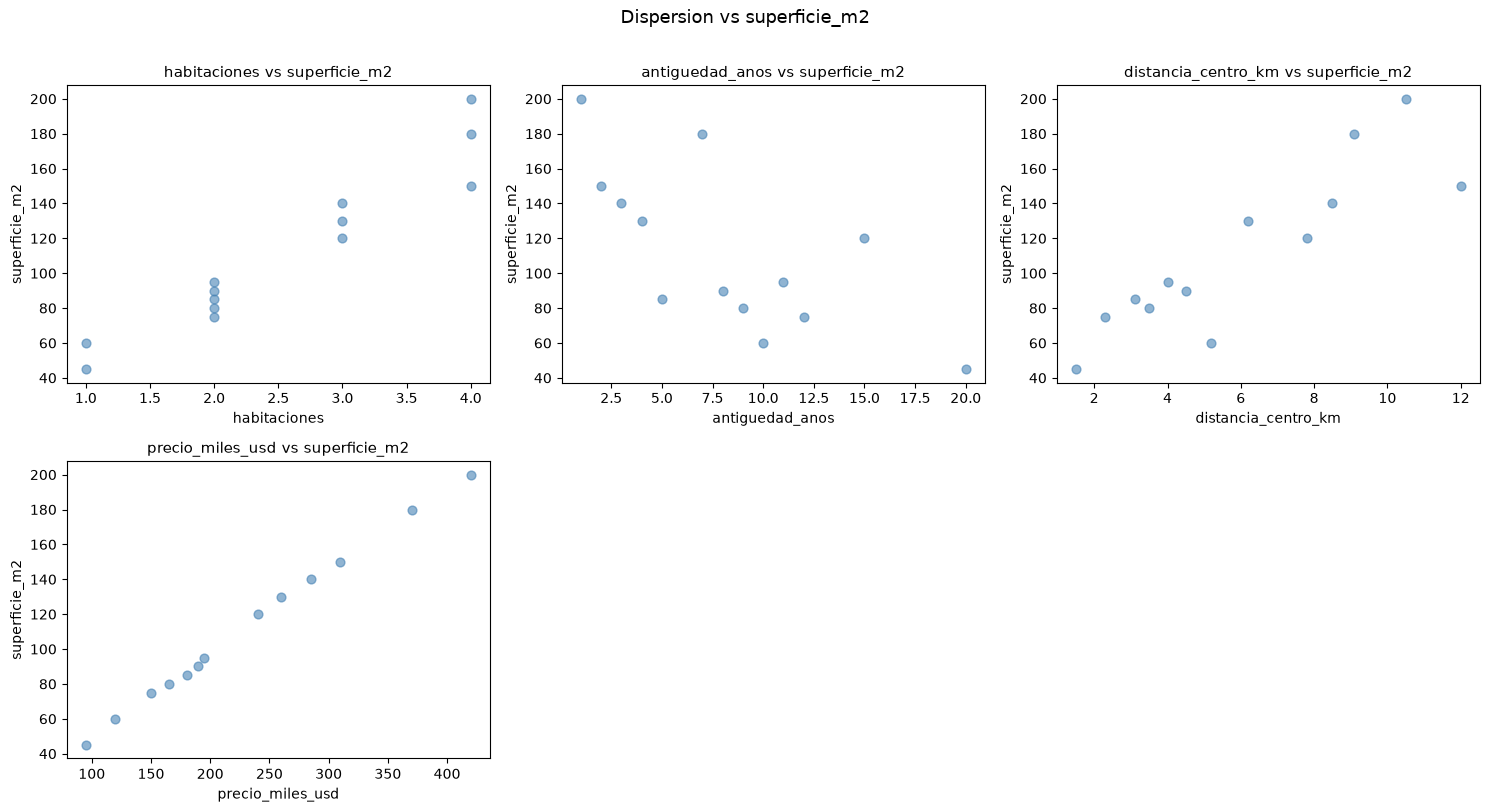
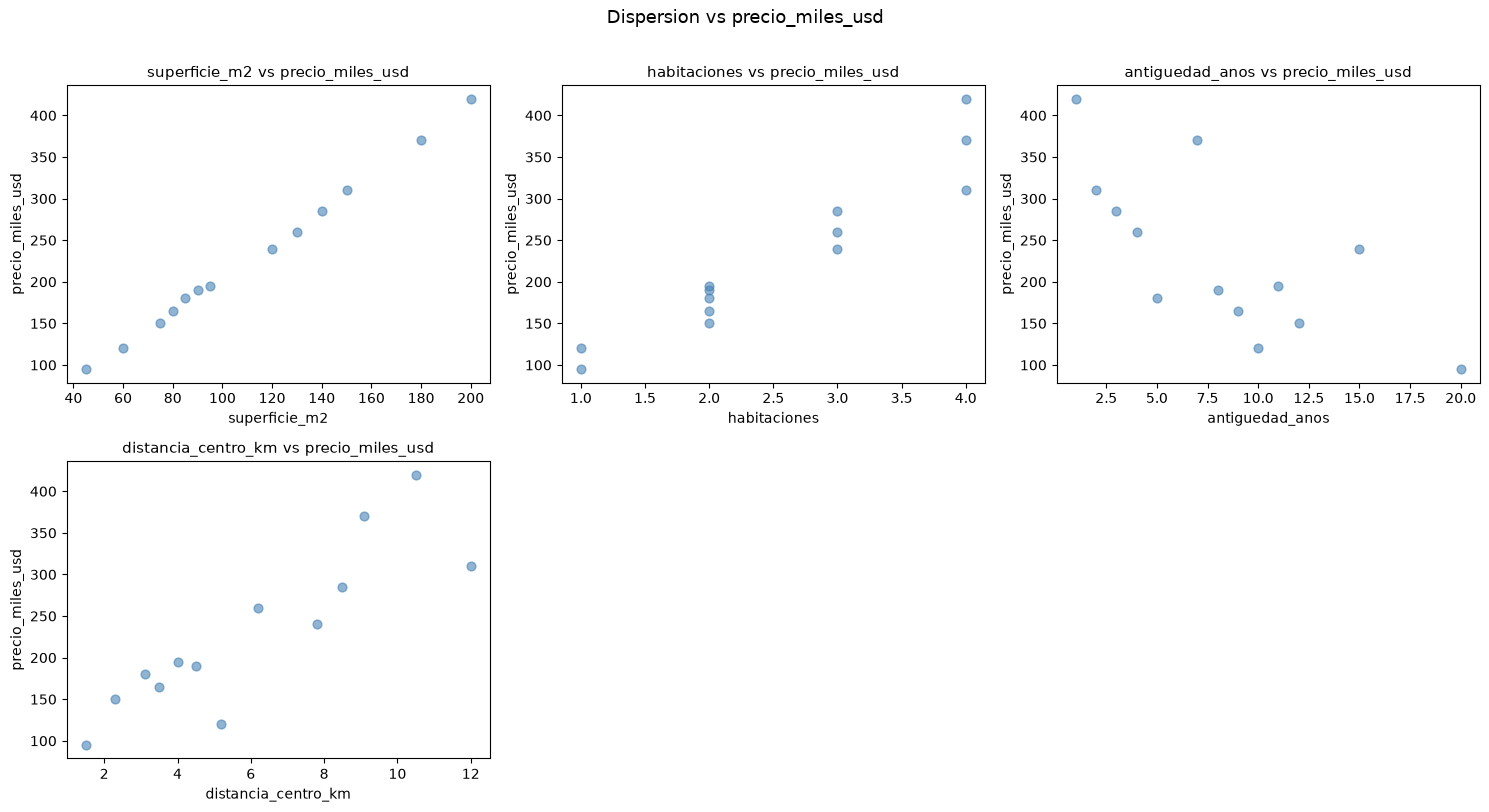
feat: v4 completa - 39 tests, logging, manejo de errores robusto

diff --git a/tests/test_modeling.py b/tests/test_modeling.py
@@ -1,0 +1,153 @@
+"""Tests for src/modeling.py"""
+
+
+
+import pandas as pd
+import pytest
+import matplotlib.pyplot as plt
+
+from src.modeling import (
+    ModelResult,
+    compute_adjusted_r2,
+    detect_leakage,
+    is_likely_identifier,
+    run_linear_regression,
+    validate_inputs,
+    plot_predictions,
+    plot_residuals,
+)
+
+
[email redacted]
+def sample_df():
+    return pd.DataFrame({
+        "sales":    [100, 200, 300, 400, 500, 600, 700, 800, 900, 1000,
+                     150, 250, 350, 450, 550, 650, 750, 850, 950, 1050],
+        "profit":   [10,  20,  30,  40,  50,  60,  70,  80,  90,  100,
+                     15,  25,  35,  45,  55,  65,  75,  85,  95,  105],
+        "discount": [0.1, 0.2, 0.1, 0.3, 0.2, 0.1, 0.2, 0.3, 0.1, 0.2,
+                     0.1, 0.2, 0.1, 0.3, 0.2, 0.1, 0.2, 0.3, 0.1, 0.2],
+        "quantity": [1, 2, 3, 4, 5, 1, 2, 3, 4, 5,
+                     1, 2, 3, 4, 5, 1, 2, 3, 4, 5],
+        "order_id": list(range(1001, 1021)),
+    })
+
+
+def test_is_likely_identifier_detects_id_column(sample_df):
+    assert is_likely_identifier("order_id", sample_df) is True
+
+
+def test_is_likely_identifier_does_not_flag_sales(sample_df):
+    col_lower = "sales".lower()
+    has_id_pattern = any(
+        p in col_lower
+        for p in ["id", "code", "cod", "key", "index", "num", "numero", "folio"]
+    )
+    assert has_id_pattern is False
+
+
+def test_is_likely_identifier_detects_unique_columns(sample_df):
+    assert is_likely_identifier("order_id", sample_df) is True
+
+
+def test_detect_leakage_finds_high_correlation(sample_df):
+    leakage = detect_leakage(sample_df, "sales", ["profit", "discount"], threshold=0.85)
+    leakage_features = [f for f, _ in leakage]
+    assert "profit" in leakage_features
+
+
+def test_detect_leakage_does_not_flag_low_correlation(sample_df):
+    leakage = detect_leakage(sample_df, "sales", ["discount"], threshold=0.85)
+    leakage_features = [f for f, _ in leakage]
+    assert "discount" not in leakage_features
+
+
+def test_compute_adjusted_r2_penalizes_extra_features():
+    r2 = 0.95
+    adj_standard = compute_adjusted_r2(r2, n=20, k=1)
+    adj_many = compute_adjusted_r2(r2, n=20, k=5)
+    assert adj_standard > adj_many
+
+
+def test_compute_adjusted_r2_returns_nan_when_insufficient_data():
+    import math
+    result = compute_adjusted_r2(0.9, n=2, k=5)
+    assert math.isnan(result)
+
+
+def test_validate_inputs_returns_none_when_valid(sample_df):
+    error = validate_inputs(sample_df, "sales", ["profit", "discount"])
+    assert error is None
+
+
+def test_validate_inputs_rejects_missing_target(sample_df):
+    error = validate_inputs(sample_df, "nonexistent", ["profit"])
+    assert error is not None
+    assert "nonexistent" in error
+
+
+def test_validate_inputs_rejects_non_numeric_target(sample_df):
+    df = sample_df.copy()
+    df["label"] = "text"
+    error = validate_inputs(df, "label", ["profit"])
+    assert error is not None
+
+
+def test_validate_inputs_rejects_no_numeric_features(sample_df):
+    df = sample_df.copy()
+    df["category"] = "A"
+    error = validate_inputs(df, "sales", ["category"])
+    assert error is not None
+
+
+def test_run_linear_regression_excludes_identifiers(sample_df):
+    result = run_linear_regression(sample_df, "sales", ["order_id", "profit", "discount"])
+    assert "order_id" in result.excluded_identifiers
+    assert "order_id" not in result.features
+
+
+def test_run_linear_regression_does_not_mutate_df(sample_df):
+    original = sample_df.copy(deep=True)
+    run_linear_regression(sample_df, "sales", ["profit", "discount"])
+    pd.testing.assert_frame_equal(sample_df, original)
+
+
+def test_run_linear_regression_returns_model_result(sample_df):
+    result = run_linear_regression(sample_df, "sales", ["profit", "discount"])
+    assert isinstance(result, ModelResult)
+    assert result.n_train + result.n_test == result.n_total
+
+
+def test_run_linear_regression_metrics_in_valid_range(sample_df):
+    result = run_linear_regression(sample_df, "sales", ["profit", "discount"])
+    assert result.mae >= 0
+    assert result.rmse >= 0
+    assert result.r2 <= 1.0
+
+
+def test_run_linear_regression_small_dataset_uses_cv(sample_df):
+    import math
+    result = run_linear_regression(sample_df, "sales", ["profit", "discount"])
+    assert result.small_dataset is True
+    assert not math.isnan(result.cv_r2_mean)
+
+
+def test_run_linear_regression_predictions_shape(sample_df):
+    result = run_linear_regression(sample_df, "sales", ["profit", "discount"])
+    assert "y_real" in result.predictions.columns
+    assert "y_pred" in result.predictions.columns
+    assert len(result.predictions) == result.n_test
+
+
+def test_plot_predictions_returns_figure(sample_df):
+    result = run_linear_regression(sample_df, "sales", ["profit", "discount"])
+    fig = plot_predictions(result)
+    assert isinstance(fig, plt.Figure)
+    plt.close("all")
+
+
+def test_plot_residuals_returns_figure(sample_df):
+    result = run_linear_regression(sample_df, "sales", ["profit", "discount"])
+    fig = plot_residuals(result)
+    assert isinstance(fig, plt.Figure)
+    plt.close("all")

diff --git a/tests/test_analysis.py b/tests/test_analysis.py
@@ -1,0 +1,109 @@
+"""Tests for src/analysis.py"""
+
+
+import pandas as pd
+import pytest
+import matplotlib.pyplot as plt
+
+from src.analysis import (
+    build_exploratory_report,
+    compute_correlation_matrix,
+    compute_target_correlations,
+    get_numeric_columns,
+    plot_correlation_heatmap,
+    plot_histograms,
+    plot_scatter,
+)
+
+
[email redacted]
+def sample_df():
+    return pd.DataFrame({
+        "sales":    [100.0, 200.0, 300.0, 400.0, 500.0],
+        "profit":   [10.0,  20.0,  30.0,  40.0,  50.0],
+        "discount": [0.1,   0.2,   0.1,   0.3,   0.2],
+        "quantity": [1, 2, 3, 4, 5],
+        "region":   ["North", "South", "East", "West", "North"],
+    })
+
+
+def test_get_numeric_columns_returns_only_numeric(sample_df):
+    numeric = get_numeric_columns(sample_df)
+    assert "sales" in numeric
+    assert "profit" in numeric
+    assert "region" not in numeric
+
+
+def test_get_numeric_columns_excludes_strings(sample_df):
+    numeric = get_numeric_columns(sample_df)
+    for col in numeric:
+        assert pd.api.types.is_numeric_dtype(sample_df[col])
+
+
+def test_compute_correlation_matrix_shape(sample_df):
+    corr = compute_correlation_matrix(sample_df)
+    numeric_count = len(get_numeric_columns(sample_df))
+    assert corr.shape == (numeric_count, numeric_count)
+
+
+def test_compute_correlation_matrix_diagonal_is_one(sample_df):
+    corr = compute_correlation_matrix(sample_df)
+    for col in corr.columns:
+        assert abs(corr.loc[col, col] - 1.0) < 1e-10
+
+
+def test_compute_target_correlations_returns_sorted(sample_df):
+    corr = compute_target_correlations(sample_df, "sales")
+    assert not corr.empty
+    abs_values = corr["correlation"].abs().tolist()
+    assert abs_values == sorted(abs_values, reverse=True)
+
+
+def test_compute_target_correlations_excludes_target(sample_df):
+    corr = compute_target_correlations(sample_df, "sales")
+    assert "sales" not in corr["feature"].values
+
+
+def test_compute_target_correlations_invalid_target(sample_df):
+    corr = compute_target_correlations(sample_df, "nonexistent")
+    assert corr.empty
+
+
+def test_build_exploratory_report_structure(sample_df):
+    report = build_exploratory_report(sample_df, "sales", ["profit", "discount"])
+    assert report.target == "sales"
+    assert "profit" in report.features
+    assert not report.correlation_matrix.empty
+    assert not report.top_correlations.empty
+
+
+def test_build_exploratory_report_does_not_mutate_df(sample_df):
+    original = sample_df.copy(deep=True)
+    build_exploratory_report(sample_df, "sales", ["profit"])
+    pd.testing.assert_frame_equal(sample_df, original)
+
+
+def test_plot_correlation_heatmap_returns_figure(sample_df):
+    corr = compute_correlation_matrix(sample_df)
+    fig = plot_correlation_heatmap(corr)
+    assert isinstance(fig, plt.Figure)
+    plt.close("all")
+
+
+def test_plot_histograms_returns_figure(sample_df):
+    numeric = get_numeric_columns(sample_df)
+    fig = plot_histograms(sample_df, numeric)
+    assert isinstance(fig, plt.Figure)
+    plt.close("all")
+
+
+def test_plot_scatter_returns_figure(sample_df):
+    fig = plot_scatter(sample_df, "sales", ["profit", "discount"])
+    assert isinstance(fig, plt.Figure)
+    plt.close("all")
+
+
+def test_plot_histograms_empty_columns(sample_df):
+    fig = plot_histograms(sample_df, [])
+    assert isinstance(fig, plt.Figure)
+    plt.close("all")

diff --git a/app.py b/app.py
@@ -16,6 +16,7 @@ from src.analysis import (
 )
 from src.cleaner import CleaningConfig, apply_cleaning
 from src.data_loader import DatasetLoadError, load_tabular_file
+from src.logger import logger
 from src.modeling import plot_predictions, plot_residuals, run_linear_regression, validate_inputs
 from src.profiler import build_profile
 from src.reporting import generate_executive_summary
@@ -136,6 +137,7 @@ def render_analysis_section(clean_df: pd.DataFrame) -> None:
 
     if st.button("Ejecutar analisis y modelo", type="primary"):
         st.session_state.analysis_running = True
+        logger.info(f"Analisis ejecutado | target={target} | features={features}")
 
     if not st.session_state.analysis_running:
         st.info("Selecciona el target y las predictoras, luego presiona el boton.")
@@ -176,15 +178,24 @@ def render_analysis_section(clean_df: pd.DataFrame) -> None:
         st.subheader("Regresion lineal")
         error_msg = validate_inputs(clean_df, target, features)
         if error_msg:
+            logger.warning(f"Validacion fallida: {error_msg}")
             st.error(error_msg)
         else:
             try:
                 result = run_linear_regression(clean_df, target, features)
+                logger.info(
+                    f"Modelo entrenado | target={result.target} | "
+                    f"R2={result.r2} | R2_adj={result.r2_adjusted} | "
+                    f"MAE={result.mae} | RMSE={result.rmse} | "
+                    f"features={result.features}"
+                )
             except ValueError as e:
+                logger.error(f"Error en regresion lineal: {e}")
                 st.error(f"❌ Error al entrenar el modelo: {e}")
                 st.stop()
 
             if result.excluded_identifiers:
+                logger.info(f"Identificadores excluidos del modelo: {result.excluded_identifiers}")
                 st.info(
                     f"🔍 Variables excluidas automaticamente por ser identificadores: "
                     f"`{'`, `'.join(result.excluded_identifiers)}`. "
@@ -193,6 +204,7 @@ def render_analysis_section(clean_df: pd.DataFrame) -> None:
 
             if result.leakage_warnings:
                 for feat, corr in result.leakage_warnings:
+                    logger.warning(f"Target Leakage detectado: {feat} correlaciona {corr} con {target}")
                     st.error(
                         f"🚨 **Target Leakage detectado:** `{feat}` correlaciona {corr} "
                         f"con `{target}`. Considera excluirla del modelo."
@@ -287,7 +299,13 @@ def main() -> None:
 
     try:
         loaded = load_dataset_cached(uploaded_file.name, file_bytes)
+        logger.info(
+            f"Archivo cargado: {uploaded_file.name} | "
+            f"{loaded.size_mb:.2f} MB | "
+            f"hash: {loaded.dataset_hash[:12]}"
+        )
     except DatasetLoadError as exc:
+        logger.error(f"Error cargando archivo '{uploaded_file.name}': {exc}")
         st.error(str(exc))
         return
 
@@ -308,6 +326,12 @@ def main() -> None:
         )
 
     clean_df, audit = apply_cleaning(raw_df, st.session_state.cleaning_config)
+    logger.info(
+        f"Limpieza aplicada: {audit.actions} | "
+        f"filas: {audit.rows_before} -> {audit.rows_after} | "
+        f"columnas: {audit.columns_before} -> {audit.columns_after}"
+    )
+
     clean_profile = build_profile(clean_df)
 
     st.subheader("Resumen del dataset")

diff --git a/src/logger.py b/src/logger.py
@@ -1,0 +1,21 @@
+"""Logging configuration for Tabular Insight Workbench."""
+
+from __future__ import annotations
+
+import logging
+import os
+from datetime import datetime
+
+os.makedirs("outputs/logs", exist_ok=True)
+
+log_filename = f"outputs/logs/app_{datetime.now().strftime('%Y%m%d')}.log"
+
+logging.basicConfig(
+    level=logging.INFO,
+    format="%(asctime)s | %(levelname)s | %(module)s | %(message)s",
+    handlers=[
+        logging.FileHandler(log_filename, encoding="utf-8"),
+    ],
+)
+
+logger = logging.getLogger("tabular_insight")

diff --git a/conftest.py b/conftest.py
@@ -1,0 +1,4 @@
+"""Pytest global configuration."""
+
+import matplotlib
+matplotlib.use("Agg")